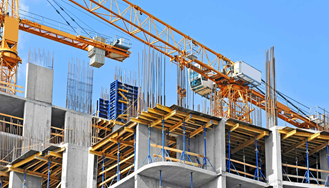
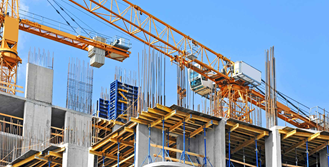
Avance

diff --git a/front/maincopy.py b/front/maincopy.py
@@ -10,10 +10,17 @@ from tkinter import *
 from tkinter import scrolledtext
 from tkinter import messagebox
 from tkinter.ttk import *
-import mockupdata as mu
 import sqlAccess as sql
-from functools import partial
 import datetime
+from PIL import Image, ImageTk
+
+from matplotlib.backends.backend_tkagg import (
+    FigureCanvasTkAgg, NavigationToolbar2Tk)
+# Implement the default Matplotlib key bindings.
+from matplotlib.backend_bases import key_press_handler
+from matplotlib.figure import Figure
+
+import numpy as np
 
 
 class main:
@@ -25,8 +32,14 @@ class main:
         self.actual_user = StringVar()
         self.actual_obra = IntVar()
 
-        self.lbl = Label(window, text="  Bienvenidos al Manejador \n de Presupuestos de Obras",font=("Arial",20))
+        #self.lbl = Label(window, text="  Bienvenidos al Manejador \n de Presupuestos de Obras",font=("Arial",20))
+        #self.lbl.grid(column=0, row=1)
+        
+        self.photo = Image.open("pic.png")
+        self.thephoto = ImageTk.PhotoImage(self.photo)
+        self.lbl = Label(window,image=self.thephoto)
         self.lbl.grid(column=0, row=1)
+        self.lbl.image = self.thephoto
 
         self.lbl1 = Label(window, text=' ')
         self.lbl1.grid(column=1,row=0)
@@ -55,7 +68,7 @@ class main:
         self.btn1.grid(column=2, row=2, sticky = (W))
         
         
-        self.btn3 = Button(window, text="Mostrar Facturas        ",
+        self.btn3 = Button(window, text="Mostrar Facturas         ",
                            command = lambda: self.ventana_mostrar_f(Toplevel(self.window)),
                            state='disabled')
         self.btn3.grid(column=2, row=2, sticky = (E))
@@ -65,12 +78,30 @@ class main:
                                ,state='disabled')
         self.btn2.grid(column=2, row=2)
         
+        self.btn4 = Button(window, text="        Ver Clientes         ",
+                           command=lambda: self.ventana_agregar_t(Toplevel(self.window))
+                               ,state='disabled')
+        self.btn4.grid(column=2, row=3)
+        
+        self.btn5 = Button(window, text="Información Obra       ",
+                           command=lambda: self.ventana_info_obra(Toplevel(self.window))
+                               ,state='disabled')
+        self.btn5.grid(column=2, row=3, sticky = (E))
+        
+        self.btn6 = Button(window, text="Ver Gráficas                 ",
+                           command=lambda: self.ventana_agregar_t(Toplevel(self.window))
+                               ,state='disabled')
+        self.btn6.grid(column=2, row=3, sticky = (W))
+        
         self.menus = Menu(window)
  
         self.new_item = Menu(self.menus)
         
         self.menus.add_command(label='Iniciar Sesión',
                     command=lambda: self.ventana_iniciar(Toplevel(self.window)))
+        self.menus.add_command(label='Estado General',state='disabled',
+                    command=lambda: self.ventana_estadogeneral(Toplevel(self.window)))
+        
         self.menus.add_command(label='Crear Usuario',state='disabled',
                     command=lambda: self.ventana_nuevo_usuario(Toplevel(self.window)))
         self.menus.add_command(label='Cerrar Sesión',state='disabled',
@@ -85,6 +116,7 @@ class main:
         self.menus.entryconfig('Iniciar Sesión',state='disabled')
         self.menus.entryconfig("Crear Usuario",state='normal')
         self.menus.entryconfig("Cerrar Sesión",state='normal')
+        self.menus.entryconfig("Estado General",state='normal')
         self.cargar_obras()
         self.actualizar_valores()
     
@@ -98,6 +130,9 @@ class main:
         self.btn2.state(['!disabled'])
         self.btn1.state(['!disabled'])
         self.btn3.state(['!disabled'])
+        self.btn4.state(['!disabled'])
+        self.btn5.state(['!disabled'])
+        self.btn6.state(['!disabled'])
         self.btn.state(['!disabled'])
        
         
@@ -311,7 +346,97 @@ class main:
         self.agregar.pack(side = "right")
         self.master.resizable(False, False)
         self.frame.pack()
+        
+    #Ventana Estado General
     
+    def ventana_estadogeneral(self,master):
+        self.master = master
+        self.master.geometry("820x320")
+        self.frame = Frame(self.master)
+        
+        def close_window(self):
+            self.master.destroy()
+            
+        data = self.generar_estado(sql.select_all_obras())
+            
+        self.quit = Button(self.frame, text = " Cancelar ", 
+                           command = lambda : close_window(self))
+        self.lbltt = Label(self.frame,text="Presupuesto General",font=("Arial",14))
+        self.lblio = Label(self.frame,text="Ingresos: $"+str(data[0][0])+
+                           "   Egresos: $"+str(data[0][1]),font=("Arial",14)) 
+        
+        self.vista = Treeview(self.frame, columns = ("entrada", "presupuesto","gasto"))
+        facturas = sql.select_transacciones_obra(self.actual_obra) 
+        
+        self.vsb = Scrollbar(self.frame, orient="vertical", command=self.vista.yview)
+        self.vsb.pack(side='right', fill='y')
+        self.vista.configure(yscrollcommand=self.vsb.set)
+        
+        self.vista.heading("#0", text="Obra")
+        self.vista.heading("entrada", text="Entrada")
+        self.vista.heading("presupuesto", text="Presupuesto")
+        self.vista.heading("gasto", text="Gasto")
+        
+        for i in range(1,len(data)):
+            self.vista.insert("",END,text=data[i][0],values=(data[i][1],
+                              data[i][2],
+                              data[i][3]))
+        self.lbltt.pack()
+        self.lblio.pack()
+        self.vista.pack()       
+        self.quit.pack()
+        self.master.resizable(False, False)
+        self.frame.pack()
+    
+    def generar_estado(self,lista_obras):
+        estado = []
+        estado.append([0,0])
+        for i in range(len(lista_obras)):
+            mock = lista_obras[i].split(". ")
+            temp = sql.select_transacciones_obra(mock[0])
+            estado.append([lista_obras[i],0,0,0])
+            for trans in temp:
+                if trans[5]=="Entrada":
+                    estado[0][0]+=trans[4]
+                    estado[i+1][1]+=trans[4]
+                elif trans[5]=="Gasto":
+                    estado[0][1]+=trans[4]
+                    estado[i+1][3]+=trans[4]                    
+                elif trans[5]=="Presupuesto":
+                    estado[i+1][2]+=trans[4]
+        return estado
+    
+    #Ventana info Obra
+    
+    def ventana_info_obra(self,master):
+        self.master = master
+        self.master.geometry("370x170")
+        self.frame = Frame(self.master)
+        
+        def close_window(self):
+            self.master.destroy()
+            
+        self.quit = Button(self.frame, text = " Salir ", 
+                           command = lambda : close_window(self))       
+        
+        data = sql.get_obra(self.actual_obra)
+        self.lblp = Label(self.frame,text=data[1],font=("Arial",14))
+        self.lblq = Label(self.frame,text="Ciudad: "+data[2],font=("Arial",12))
+        self.lblr = Label(self.frame,text="Direccion: "+data[3],font=("Arial",12))
+        self.lbls = Label(self.frame,text="Ingeniero Encargado: "+data[4],font=("Arial",12))
+        #self.lblu = Label(self.frame,text="Aptos Disponibles: "+data[7],font=("Arial",12))
+        self.lblt = Label(self.frame,text="Fecha Inicio: "+data[5]+" Fecha Culminación: "
+                          +data[6],font=("Arial",10))      
+        self.lblp.pack()
+        self.lblq.pack()
+        self.lblr.pack()
+        self.lbls.pack()
+        #self.lblu.pack()
+        self.lblt.pack()
+        self.quit.pack()
+        self.master.resizable(False, False)
+        self.frame.pack()    
+        
     #Ventana para Agregar Usuario
     def ventana_nuevo_usuario(self,master):
         self.master = master
@@ -371,6 +496,7 @@ class main:
             self.menus.entryconfig('Iniciar Sesión',state='normal')
             self.menus.entryconfig("Crear Usuario",state='disabled')
             self.menus.entryconfig("Cerrar Sesión",state='disabled')
+            self.menus.entryconfig("Estado General",state='disabled')
             self.actual_user = ''
             self.actual_obra = 0
             self.txt.delete(1.0,END)
@@ -600,23 +726,7 @@ class main:
         self.frame.pack()
                                    
     #Ventana para ver graficas de obra
-
-
-#Totally Mockup, it should call SQL DB
-
-
-def registrar_transaccion(data):
-    rta = mu.registrar_transaccion(data[0].get(),data[2].get(),data[3].get())
-    if rta[0] == False:
-        messagebox.showerror('Error al Registrar', rta[1])
-    else:
-        #actualizar_valores(data,'')
-        pass
-
-
- 
-    def close_window(self):
-        self.master.destroy()       
+    
 
 root = Tk()
 app = main(root)

diff --git a/front/creador tabla.py b/front/creador tabla.py
@@ -50,7 +50,7 @@ def main():
                                     ); """
 
     crear_clientes = """ CREATE TABLE IF NOT EXISTS clientes (
-                                        id int PRIMARY KEY,
+                                        id integer PRIMARY KEY,
                                         nombre text NOT NULL,
                                         telefono text NOT NULL,
                                         direccion text NOT NULL
@@ -63,7 +63,8 @@ def main():
                                     direccion text NOT NULL,
                                     encargado text NOT NULL,
                                     begin_date text NOT NULL,
-                                    end_date text NOT NULL                       
+                                    end_date text NOT NULL,
+                                    apartamentos integer
                                 );"""
     
     crear_transacciones = """CREATE TABLE IF NOT EXISTS transacciones (
@@ -74,8 +75,10 @@ def main():
                                     valor real NOT NULL,
                                     tipo text NOT NULL,
                                     presupuestado text NOT NULL,
+                                    cliente_id integer,
                                     FOREIGN KEY (obra_id) REFERENCES obras (id),
-                                    FOREIGN KEY (responsable) REFERENCES users (user)
+                                    FOREIGN KEY (responsable) REFERENCES users (user),
+                                    FOREIGN KEY (cliente_id) REFERENCES clientes (id)
                                 );"""
  
     # create a database connection
@@ -90,8 +93,11 @@ def main():
         create_table(conn, crear_obras)
         
         # create transacciones
-        #create_table(conn, crear_transacciones)
         create_table(conn, crear_transacciones)
+        
+        # create clientes
+        #create_table(conn crear_clientes)
+        
     else:
         print("Error! cannot create the database connection.")
     

diff --git a/front/sqlAccess.py b/front/sqlAccess.py
@@ -95,6 +95,18 @@ def select_all_obras():
         for row in rows:
             users.append(str(row[0]) + ". " +row[1])
         return tuple(users)
+    
+def get_obra(elid):
+    database ="database/trialdb.db"
+    
+    # create a database connection
+    conn = create_connection(database)
+    with conn:
+        sql = "SELECT * FROM obras WHERE id = ?"
+        cur = conn.cursor()
+        cur.execute(sql,(elid,))
+        
+        return cur.fetchall()[0]
 
 def create_transaccion(transaccion):
     database = "database/trialdb.db"
